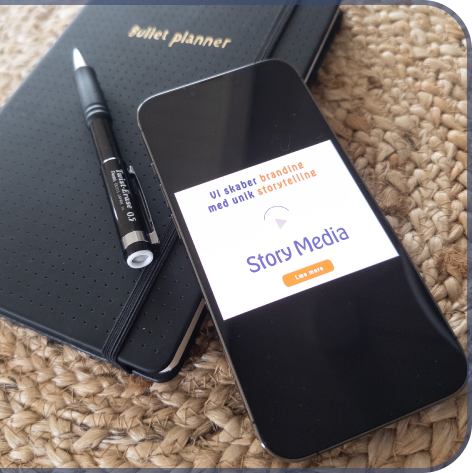
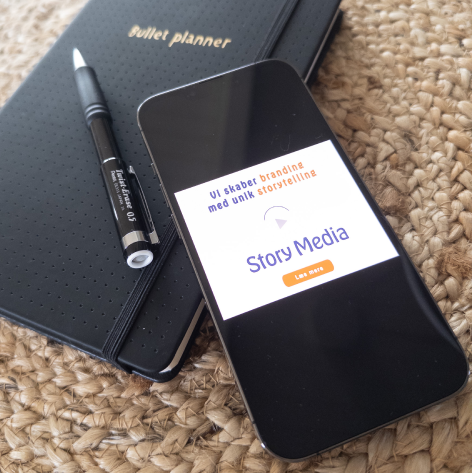
Tilføjet nye billeder til BP

Changed region(s): [[0.0, 0.0, 1.0, 1.0], [0.0, 0.0, 0.4746, 0.0296], [0.6229, 0.0, 0.6525, 0.0296]]

diff --git a/branding-proces.html b/branding-proces.html
@@ -84,7 +84,7 @@
                 </ul>
             </section>
             <div class="branding-img-bokse-venstre">
-                <img src="img/brandin proces-unik.png" alt="Kvinde med ipad">
+                <img src="img/BP-mobil-billede.png" alt="Mobiltelefon på notesbog">
             </div>
         </div>
 
@@ -103,7 +103,7 @@
                 </ul>
             </section>
             <div class="branding-img-bokse-hojre">
-                <img src="img/brandingproces-kunde.png" alt="Finger peger på en computerskærm">
+                <img src="img/BP-kundebillede.png" alt="Finger peger på en computerskærm">
             </div>
         </div>
 
@@ -124,7 +124,7 @@
                 </ul>
             </section>
             <div class="branding-img-bokse-venstre">
-                <img src="img/brandingproces-identitet.png" alt="Postkort på et bord">
+                <img src="img/BP-devices.png" alt="Postkort på et bord">
             </div>
         </div>
 
